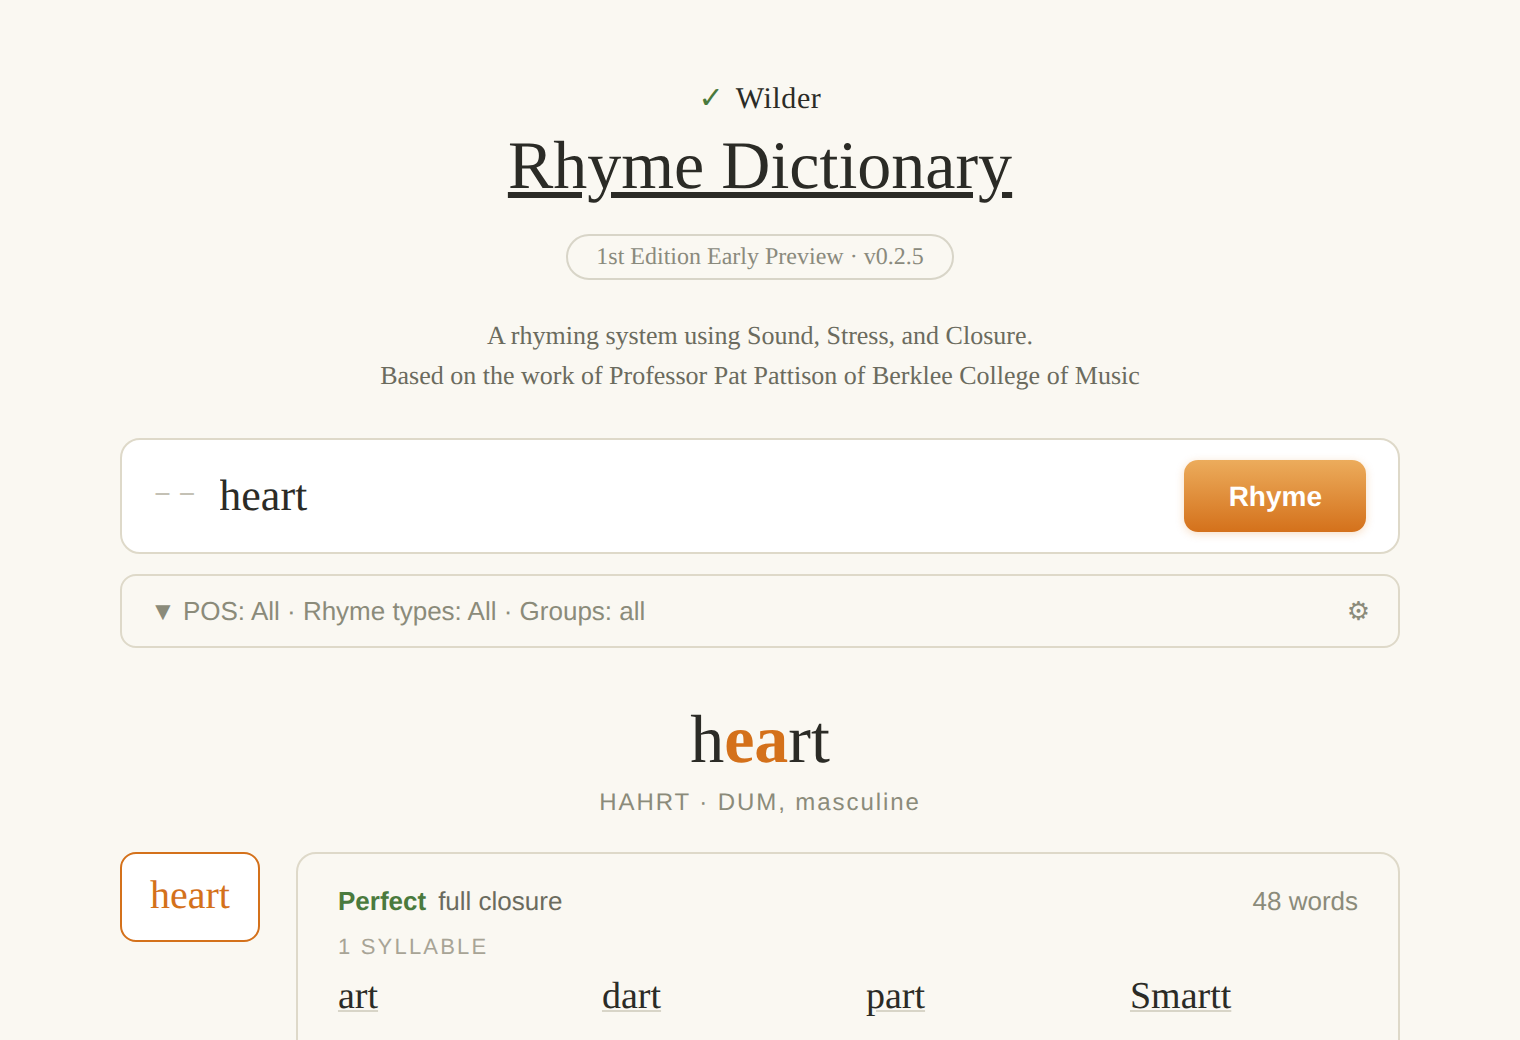
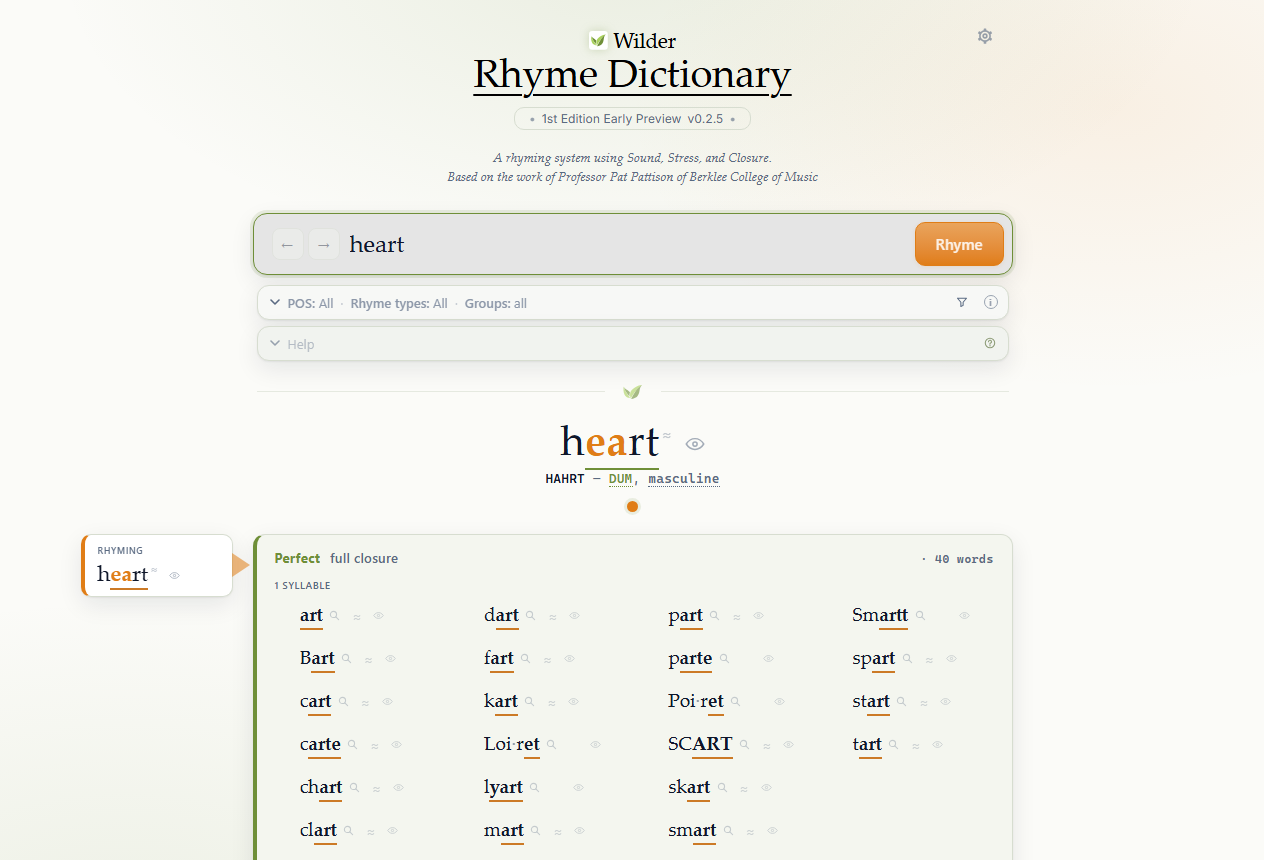
Refresh the Wilder Rhymes screenshot; match font stacks to the app
New screenshot is a fresh capture of the current header/search/results
for "heart", replacing the stale one. Font stacks (--serif, --sans) now
match wilder-rhymes-dev/mvp/index.html exactly -- that app is the
source of truth for both.

diff --git a/index.html b/index.html
@@ -18,8 +18,8 @@
     --orange: #d97a2b;
     --orange-soft: #f0dcc4;
     --line: #dedad0;
-    --serif: Georgia, 'Iowan Old Style', 'Palatino Linotype', Palatino, serif;
-    --sans: -apple-system, BlinkMacSystemFont, 'Segoe UI', Helvetica, Arial, sans-serif;
+    --serif: 'Iowan Old Style', 'Palatino Linotype', Palatino, Georgia, serif;
+    --sans: -apple-system, BlinkMacSystemFont, 'Segoe UI', Roboto, system-ui, sans-serif;
   }
 
   * { box-sizing: border-box; }
